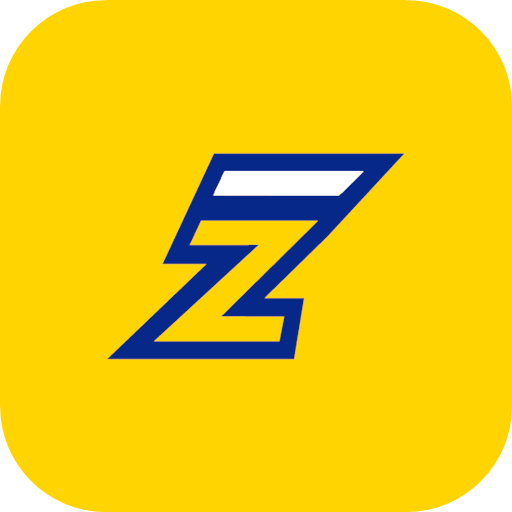
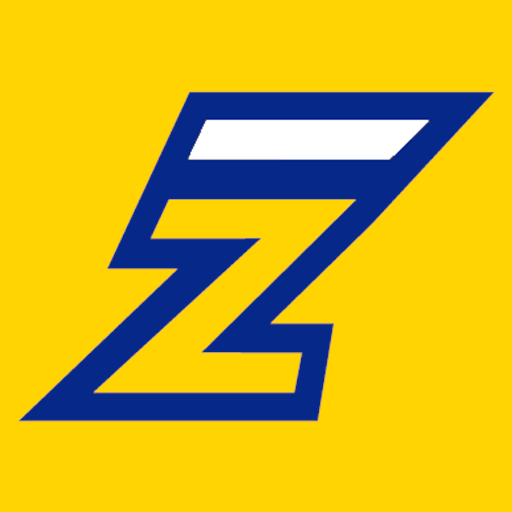
תיקוני-המשך: קטגוריות חזרו לריבועים, מסך-כניסה גם בהתחברות פעילה, יציאת-splash מגניבה, אייקון-Z סופי
.cat-circle חזר ל-border-radius מקורי (הבהרה: המשתמש רוצה ריבועים, לא עיגולים).
heroGoHome() חדש ב-landing-demo.html מציג את מסך-הכניסה הצהוב גם כשמתחברים
בפועל (heroLogin/goToRealHome), לא רק בבדיקת-session פסיבית כמו קודם - סוגר
את אותו פער "מסך לבן" בנתיב שלא טופל. hb-splash יוצא עכשיו בגלישה למטה
במקום דהייה. "עודכן: יולי 2026" עבר מהפוטר (מנע שורה כפולה במובייל) לתפריט
המלא, מתחת לאינסטגרם.

אייקוני ההתקנה (apple-touch/192/512) עודכנו לגרסה סופית לפי תמונת-רפרנס
שהמשתמש שלח: ריבוע חד-פינות במקום סקוורקל, הסימן ממלא כמעט את כל השטח.

Changed region(s): [[0.0, 0.0, 1.0, 1.0], [0.8125, 0.8125, 1.0, 1.0], [0.0, 0.0, 0.1875, 0.1875]]

diff --git a/home.html b/home.html
@@ -103,9 +103,16 @@
       display: flex; align-items: center; justify-content: center;
       background: var(--yellow);
       opacity: 0; pointer-events: none;
+      transform: translateY(0);
       transition: opacity .25s ease;
     }
     .hb-splash.show { opacity: 1; pointer-events: auto; }
+    /* יציאה "מגניבה" — גלישה למטה במקום היעלמות-פתאומית, לפי בקשה מפורשת */
+    .hb-splash.leaving {
+      pointer-events: none;
+      transform: translateY(100%);
+      transition: transform .55s cubic-bezier(.4,0,.2,1);
+    }
     .hb-splash img { width: min(240px, 60vw); height: auto; }
     body {
       font-family: 'Rubik', sans-serif;
@@ -202,7 +209,7 @@
     /* גודל פרופורציונלי לכרטיסי-העסק (238px במובייל) — אותו יחס כמו בדסקטופ (78/294≈27%,
        ר' @media min-width:761px למטה) במקום ה-52px הקודם שהיה קטן מדי במובייל (בקשה מפורשת). */
     .cat-circle {
-      width: 64px; height: 64px; border-radius: 50%;
+      width: 64px; height: 64px; border-radius: var(--r-tile);
       background: var(--field); color: var(--ink-2);
       display: flex; align-items: center; justify-content: center;
       flex-shrink: 0;
@@ -791,6 +798,10 @@
     }
     .menu-promo-title { font-size: 14px; font-weight: 700; color: var(--ink); }
     .menu-promo-sub { font-size: 12.5px; color: var(--ink-3); margin-top: 2px; }
+    .menu-legal-note {
+      margin: 0 16px 16px; font-size: 11.5px; color: var(--ink-3); text-align: center;
+    }
+    .menu-legal-note a { color: var(--ink-3); text-decoration: underline; }
 
     /* ══ CONTACT SHEET ══ */
     .contact-overlay {
@@ -1013,8 +1024,8 @@
     clearTimeout(window._hbSplashTimer);
     var el = document.getElementById('hbSplash');
     if (!el) return;
-    el.classList.remove('show');
-    setTimeout(function () { el.remove(); }, 300);
+    el.classList.add('leaving');
+    setTimeout(function () { el.remove(); }, 560);
   };
 </script>
 
@@ -1259,7 +1270,7 @@
 
 <footer class="site-footer">
   <img class="site-footer-logo" src="images/yellowzone-logo-horizontal.png" alt="Yellow Zone"/>
-  <div class="site-footer-line"><a class="site-footer-link" href="business.html?ctx=menu" target="_blank" rel="noopener">הוסיפו את העסק שלכם</a> · <a class="site-footer-link site-footer-highlight" href="https://instagram.com/Yellowzone.mta" target="_blank"><span dir="ltr">Yellowzone.mta <svg class="footer-ig-icon" viewBox="0 0 24 24" fill="none" stroke="currentColor" stroke-width="1.8" stroke-linecap="round" stroke-linejoin="round"><rect x="3" y="3" width="18" height="18" rx="5"/><circle cx="12" cy="12" r="4"/><circle cx="17.5" cy="6.5" r="1" fill="currentColor" stroke="none"/></svg></span></a> · © 2026 · <a class="site-footer-link" href="terms.html">תקנון ומדיניות לאוהדים (עודכן: יולי 2026)</a></div>
+  <div class="site-footer-line"><a class="site-footer-link" href="business.html?ctx=menu" target="_blank" rel="noopener">הוסיפו את העסק שלכם</a> · <a class="site-footer-link site-footer-highlight" href="https://instagram.com/Yellowzone.mta" target="_blank"><span dir="ltr">Yellowzone.mta <svg class="footer-ig-icon" viewBox="0 0 24 24" fill="none" stroke="currentColor" stroke-width="1.8" stroke-linecap="round" stroke-linejoin="round"><rect x="3" y="3" width="18" height="18" rx="5"/><circle cx="12" cy="12" r="4"/><circle cx="17.5" cy="6.5" r="1" fill="currentColor" stroke="none"/></svg></span></a> · © 2026 · <a class="site-footer-link" href="terms.html">תקנון ומדיניות לאוהדים</a></div>
 </footer>
 
 <script>
@@ -2712,6 +2723,7 @@ document.addEventListener('DOMContentLoaded', () => {
       <div class="menu-promo-sub">כל ההטבות החדשות קודם באינסטגרם</div>
     </span>
   </a>
+  <div class="menu-legal-note"><a href="terms.html">תקנון ומדיניות לאוהדים</a> · עודכן: יולי 2026</div>
 </div><!-- end menu-drawer -->
 </div>
 <!-- ══ CONTACT SHEET ══ -->

diff --git a/landing-demo.html b/landing-demo.html
@@ -760,7 +760,14 @@ function openLoginModal() {
 }
 function scrollToPreview() { document.getElementById('previewSection').scrollIntoView({behavior:'smooth', block:'start'}); }
 function previewScrollCards(dir) { document.getElementById('previewCardsScroll').scrollBy({left: dir * 260, behavior: 'smooth'}); }
-function goToRealHome() { location.href = 'home.html'; }
+// מציג את אותו אוברליי צהוב (.lp-splash) שכבר בנוי ל-lp-checking גם כשעוברים
+// ל-home.html דרך פעולה יזומה (לא רק בבדיקת session פסיבית בטעינת הדף) — כדי שלא
+// יהיה רגע ריק/לבן בין הניווט לטעינת הדף החדש (בקשה מפורשת של המשתמש).
+function heroGoHome() {
+  document.documentElement.classList.add('lp-checking');
+  location.href = 'home.html';
+}
+function goToRealHome() { heroGoHome(); }
 window.shareLandingPage = async function() {
   const shareData = {
     title: 'Yellow Zone — קונים כחול-צהוב',
@@ -851,7 +858,7 @@ window.heroLogin = async function() {
       const cred = await signInWithCustomToken(auth, data.customToken);
       localStorage.setItem('hb_phone', heroNormalizePhoneDigits(phoneRaw));
       localStorage.setItem('hb_memberId', cred.user.uid);
-      location.href = 'home.html';
+      heroGoHome();
       return;
     }
     btn.disabled = false; btn.textContent = 'התחברו';

diff --git a/docs/PROJECT_CONTEXT.md b/docs/PROJECT_CONTEXT.md
@@ -2957,3 +2957,17 @@ Firestore collection יחיד `settings`, מסמך יחיד בשימוש `messag
 **קבצי ה-`.svg` המקבילים (`icon-192.svg` וכו') נשארו כמו שהיו — לא בשימוש בפועל** (נבדק ב-grep על כל ה-HTML, רק הגרסאות `.png` מקושרות מ-`manifest.json`/`<head>`), ולא היה מקור-וקטור זמין (קובץ ה-`.ai` המקורי לא נפתח בכלים הזמינים בסביבה) כדי לעדכן אותם באמת.
 
 **לא אומת ב-PWA מותקנת בפועל (רק בקבצים/מידות/פורמט)** — מומלץ למשתמש לרענן/להתקין-מחדש את ה-PWA (`sw.js` עלול להגיש קבצים ישנים מהמטמון, ר' [[feedback_dev_server_sw_cache]]) ולוודא שהאייקון החדש מופיע נכון על מסך הבית ובלשונית הדפדפן.
+
+**עדכון-המשך (אותו יום) — המשתמש שלח תמונת-רפרנס מדויקת:** הגרסה הראשונה (סקוורקל ברדיוס 20.7%, סימן ב-60% מהקנבס) לא תאמה את מה שהמשתמש רצה בפועל. המשתמש שלח תמונה (ריבוע חד-פינות, ללא עיגול, הסימן ממלא כ-95% מהרוחב) כרפרנס מדויק. **תוקן:** `apple-touch-icon.png`/`icon-192.png`/`icon-512.png` נבנו מחדש ללא עיגול-פינות בכלל (רקע מלא, כמו ה-maskable) עם הסימן בקנה-מידה 96% (לא 60%) — תואם ויזואלית לתמונה ששלח. **`icon-maskable-512.png` נשאר ללא שינוי** (42%, safe-zone) — אילוץ טכני של תקן ה-maskable, לא עניין של סגנון, גם אם זה סוטה מהרפרנס. **`favicon-32.png` לא נגע בו** — נשאר הלוגו הישן במפורש, לפי הבהרת המשתמש בסבב הקודם ש"לוגו האפליקציה שמורידים" (אייקוני התקנה) שונה מהפייביקון (לשונית דפדפן).
+
+## 89. סבב תיקונים נוסף אחרי בדיקה בפועל — עיגולי-קטגוריה חזרו לריבועים, מסך-כניסה גם בהתחברות-אקטיבית, יציאת-splash "מגניבה", "עודכן: יולי" עבר לתפריט (2026-08-01, המשך אותו יום)
+
+**1. עיגולי הקטגוריה (§87 סעיף 3) — המשתמש הבהיר שהוא רוצה ריבועים, לא עיגולים.** התיקון הקודם (`border-radius:50%`) פירש לא נכון את ההערה "זה לא עיגולים, זה ריבועים" כבקשה-לתקן-לעיגולים — בפועל זו הייתה הבהרה שהצורה הרצויה היא ריבועים (הישן, `var(--r-tile)`, 15px). **תוקן חזרה** ל-`border-radius: var(--r-tile)`.
+
+**2. מסך-הכניסה (splash) לא כיסה את הפער בהתחברות אקטיבית.** ה-`.lp-splash` מ-§87 כיסה רק את המקרה הפסיבי (חבר עם session שמור, `onAuthStateChanged` בטעינת הדף) — אבל כשמתחברים בפועל דרך הטופס (`heroLogin`, טלפון+קוד) והמעבר ל-`home.html` קורה מיד אחרי הצלחה (`location.href`), לא היה שום כיסוי, בדיוק כמו הבאג המקורי. **תוקן:** נוספה פונקציה משותפת `heroGoHome()` (`landing-demo.html`) שמוסיפה `lp-checking` (מציגה את `.lp-splash` הקיים) **לפני** הניווט — משמשת גם ב-`heroLogin` (אחרי כניסה מוצלחת) וגם ב-`goToRealHome()` (כפתור "כניסה לאינדקס המלא" לחברים שכבר מזוהים). כיוון ש-`home.html` עצמו כבר מציג את ה-`hb-splash` שלו ברגע שהוא נטען (§86), הרצף המלא מכוסה ברצף אחיד בלי רגע חשוף.
+
+**3. יציאת ה-splash הפכה ל"מגניבה" — גלישה למטה במקום היעלמות פתאומית.** `.hb-splash` (`home.html`) — נוספה מחלקה `.leaving` (`transform: translateY(100%)`, מעבר `.55s`) שמופעלת ב-`_hbHideSplash()` **במקום** הסרת `.show` הישנה — המסך "גולש" מטה ונעלם, ולא רק דוהה. הסרת האלמנט בפועל עוכבה מ-300ms ל-560ms כדי לתת לאנימציה החדשה (הארוכה יותר) להשלים.
+
+**4. "עודכן: יולי 2026" הוריד לשורה שנייה בפוטר במובייל.** הוסר מהקישור בפוטר (`site-footer`, נשאר רק "תקנון ומדיניות לאוהדים"), ונוסף כשורה קטנה נפרדת (`.menu-legal-note`) בתחתית התפריט המלא (המבורגר), מתחת לתיבת-הפרומו הצהובה של אינסטגרם — לפי ההצעה השנייה של המשתמש ("אם אי אפשר תוריד, תוסיף בבורגר למטה מתחת לאינסטגרם").
+
+**אומת בדפדפן חי:** `landing-demo.html` — `heroGoHome`/`goToRealHome` קיימים ב-`window`, `.lp-splash` עובר ל-`display:flex` כש-`lp-checking` מופעל. `home.html` — `getComputedStyle`/`fetch(cache:'no-store')` מאשרים `border-radius:var(--r-tile)`, `.hb-splash.leaving`, `.menu-legal-note`, והתאריך לא מופיע יותר בפוטר. **לא אומת ויזואלית עם session אמיתי** (כרגיל — אין session בסביבת הבדיקה).
